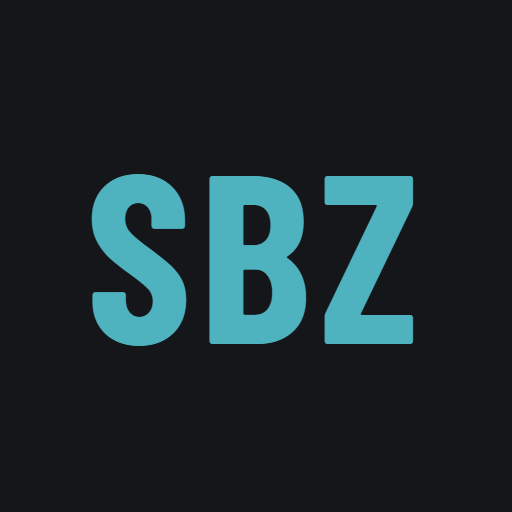
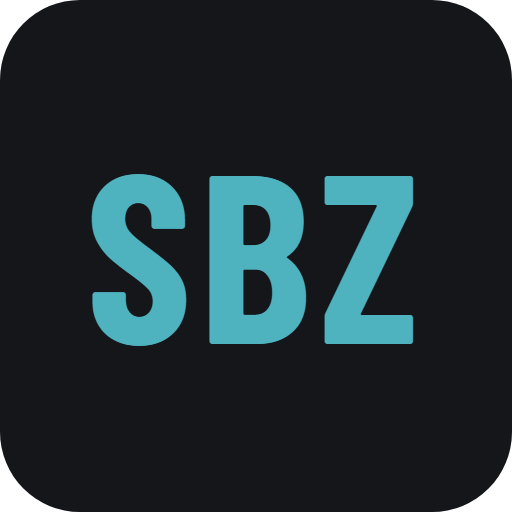
fix(front): icones SBZ com canto arredondado e guarda de fonte no gerador (#262)

diff --git a/frontend/next/src/components/marca/fonteMarca.ts b/frontend/next/src/components/marca/fonteMarca.ts
@@ -1,3 +1,3 @@
 import { Barlow_Condensed } from "next/font/google";
-/** Voz da marca (linguagem A). So o hero e o card social importam daqui. */
+/** Voz da marca (linguagem A). So o hero, o card social e o MonogramaSBZ importam daqui. */
 export const fonteMarca = Barlow_Condensed({ subsets: ["latin"], weight: ["500", "700"], display: "swap" });
